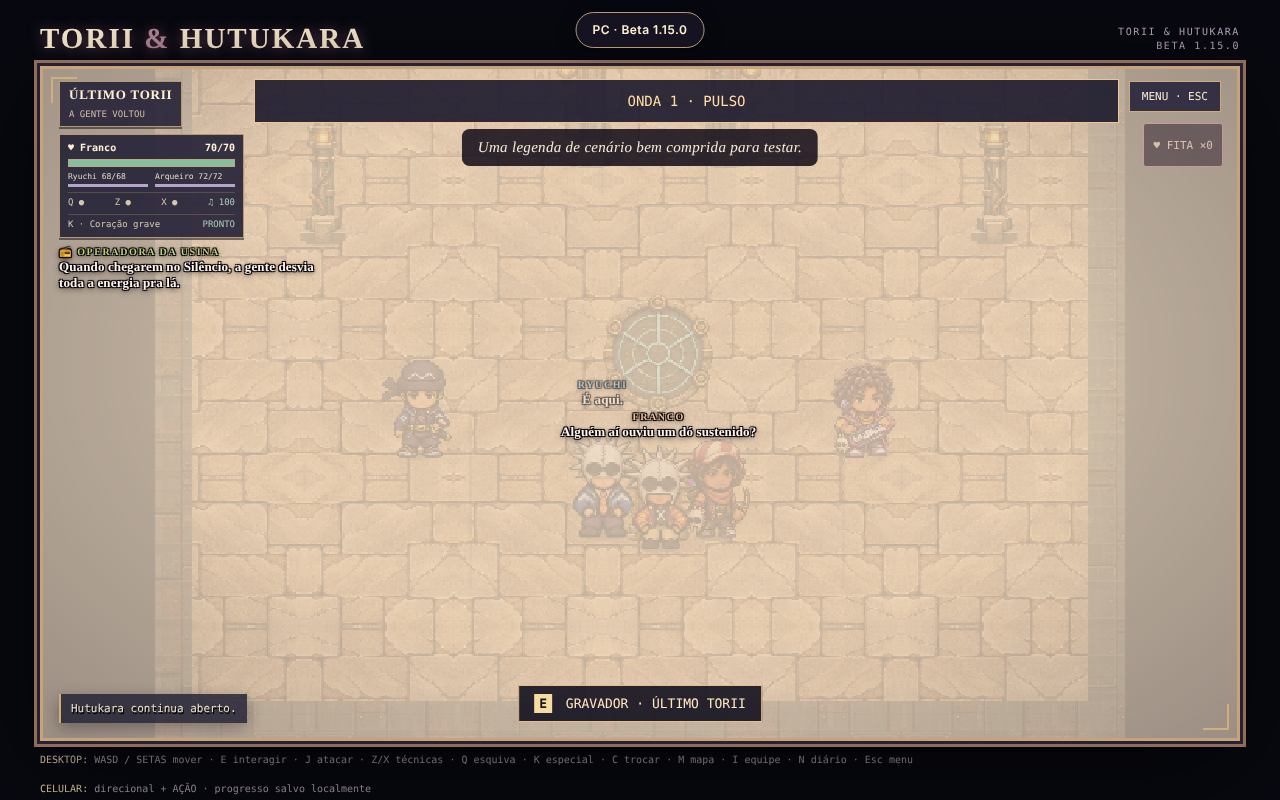
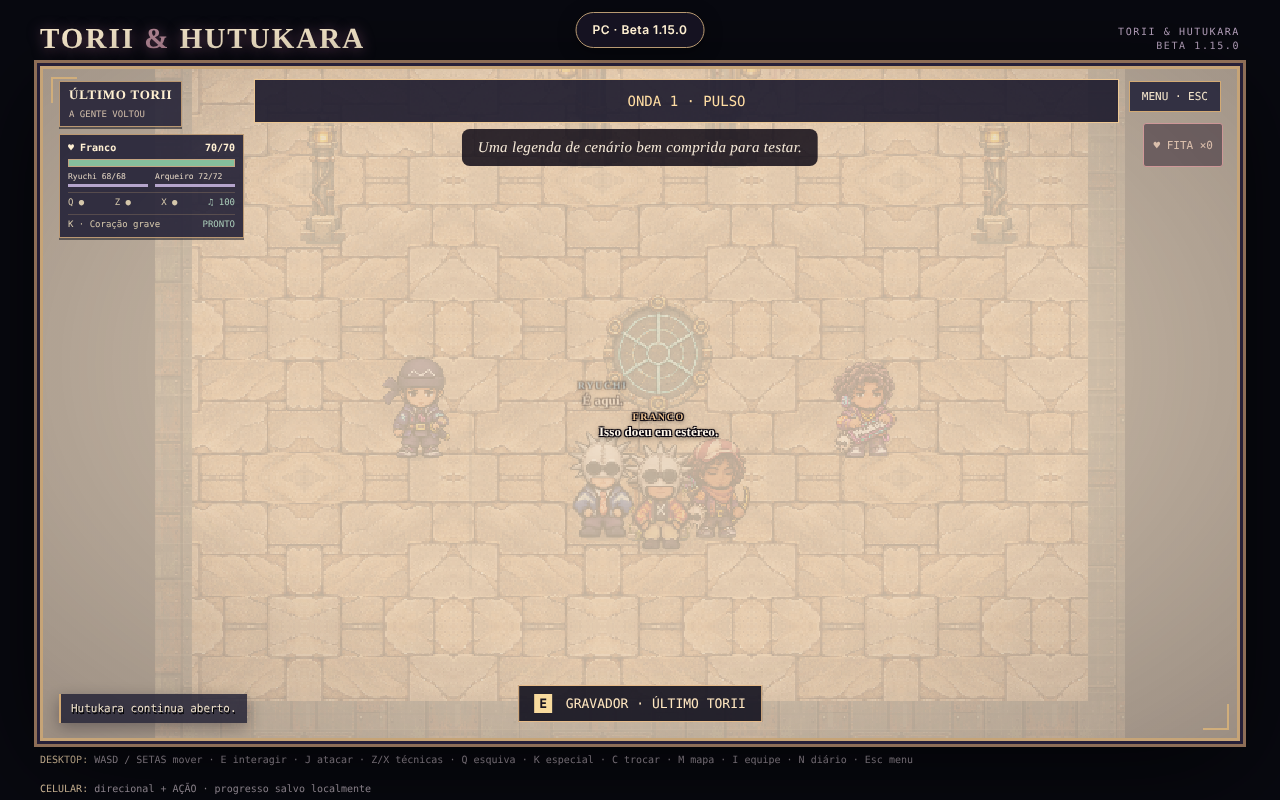
Revisão v7: grupo já nasce em formação ao trocar de área; queda nas nuvens nos testes de mundo
Claude-Session: https://claude.ai/code/session_01FwFcGmMjZtNZaJU31nnPeM

diff --git a/game/source/chapter-03/revisao_v7.js b/game/source/chapter-03/revisao_v7.js
@@ -110,7 +110,7 @@ function free(x,y){
   try{if(typeof CloudWorldV1!=='undefined'&&CloudWorldV1.active()&&CloudWorldV1.voidAt(x,y))return false}catch{}
   try{return typeof canBody121==='function'?canBody121(x,y):tileWalkable(current,x,y)}catch{return true}
 }
-const still={x:NaN,y:NaN,t:0,area:null};const shown=new Map();
+const still={x:NaN,y:NaN,t:0,area:null,fresh:true};const shown=new Map();
 function formationSlot(i,f){
   // Sprites têm ~1,4 casa de largura e ~2 de altura: olhando para os lados, o grupo fica em
   // fila atrás do líder; olhando para cima/baixo, fica lado a lado (nunca empilhado na vertical).
@@ -128,15 +128,16 @@ if(typeof getFollower==='function'){
     if(!G||!base)return base;
     if(typeof C3!=='undefined'&&C3.coopActive?.())return base;
     const now=typeof tick==='number'?tick:performance.now()/1000;
-    if(still.area!==G.area){still.area=G.area;shown.clear()}
-    if(Math.hypot(still.x-G.x,still.y-G.y)>.02){still.x=G.x;still.y=G.y;still.t=now}
-    const idle=now-still.t>=R.IDLE_AFTER;
+    if(still.area!==G.area){still.area=G.area;shown.clear();still.fresh=true;still.x=G.x;still.y=G.y}
+    if(Math.hypot(still.x-G.x,still.y-G.y)>.02){still.x=G.x;still.y=G.y;still.t=now;still.fresh=false}
+    // Logo depois de entrar numa área não há rastro: o grupo já nasce em formação.
+    const idle=still.fresh||now-still.t>=R.IDLE_AFTER||!(typeof trail!=='undefined'&&trail.length);
     let target=null;
     if(idle)target=formationSlot(i,facing());
     if(!target){const p=trailPoint(R.SPACING*(i+1));if(p&&free(p.x,p.y))target=p}
     if(!target)target=base;
     let s=shown.get(i);
-    if(!s||Math.hypot(s.x-target.x,s.y-target.y)>4){s={x:target.x,y:target.y,t:now,tx:target.x,ty:target.y};shown.set(i,s)}
+    if(!s||still.fresh||Math.hypot(s.x-target.x,s.y-target.y)>4){s={x:target.x,y:target.y,t:now,tx:target.x,ty:target.y};shown.set(i,s)}
     if(now!==s.t){const dt=Math.max(0,Math.min(.1,now-s.t)),k=Math.min(1,dt*R.SLIDE);s.x+=(target.x-s.x)*k;s.y+=(target.y-s.y)*k;s.t=now}
     s.tx=target.x;s.ty=target.y;
     return {x:s.x,y:s.y,dir:target.dir||base.dir||G.dir};
@@ -194,6 +195,7 @@ R.mobileDialogue=function(){
   else if(d.dataset.r7){for(const k of ['top','bottom','max-height','overflow'])d.style.removeProperty(k);delete d.dataset.r7}
 };
 setInterval(()=>{try{R.touchHints();R.mobileDialogue()}catch{}},120);
+if(typeof updateMobileLayout121==='function'){const layoutV7=updateMobileLayout121;updateMobileLayout121=function(...a){const r=layoutV7.apply(this,a);try{R.mobileDialogue()}catch{}return r}}
 
 /* ---------- 8. Ajustes menores ----------
  * a) Porta de volta: ao chegar por uma porta, o grupo aparecia em cima da porta de volta e
